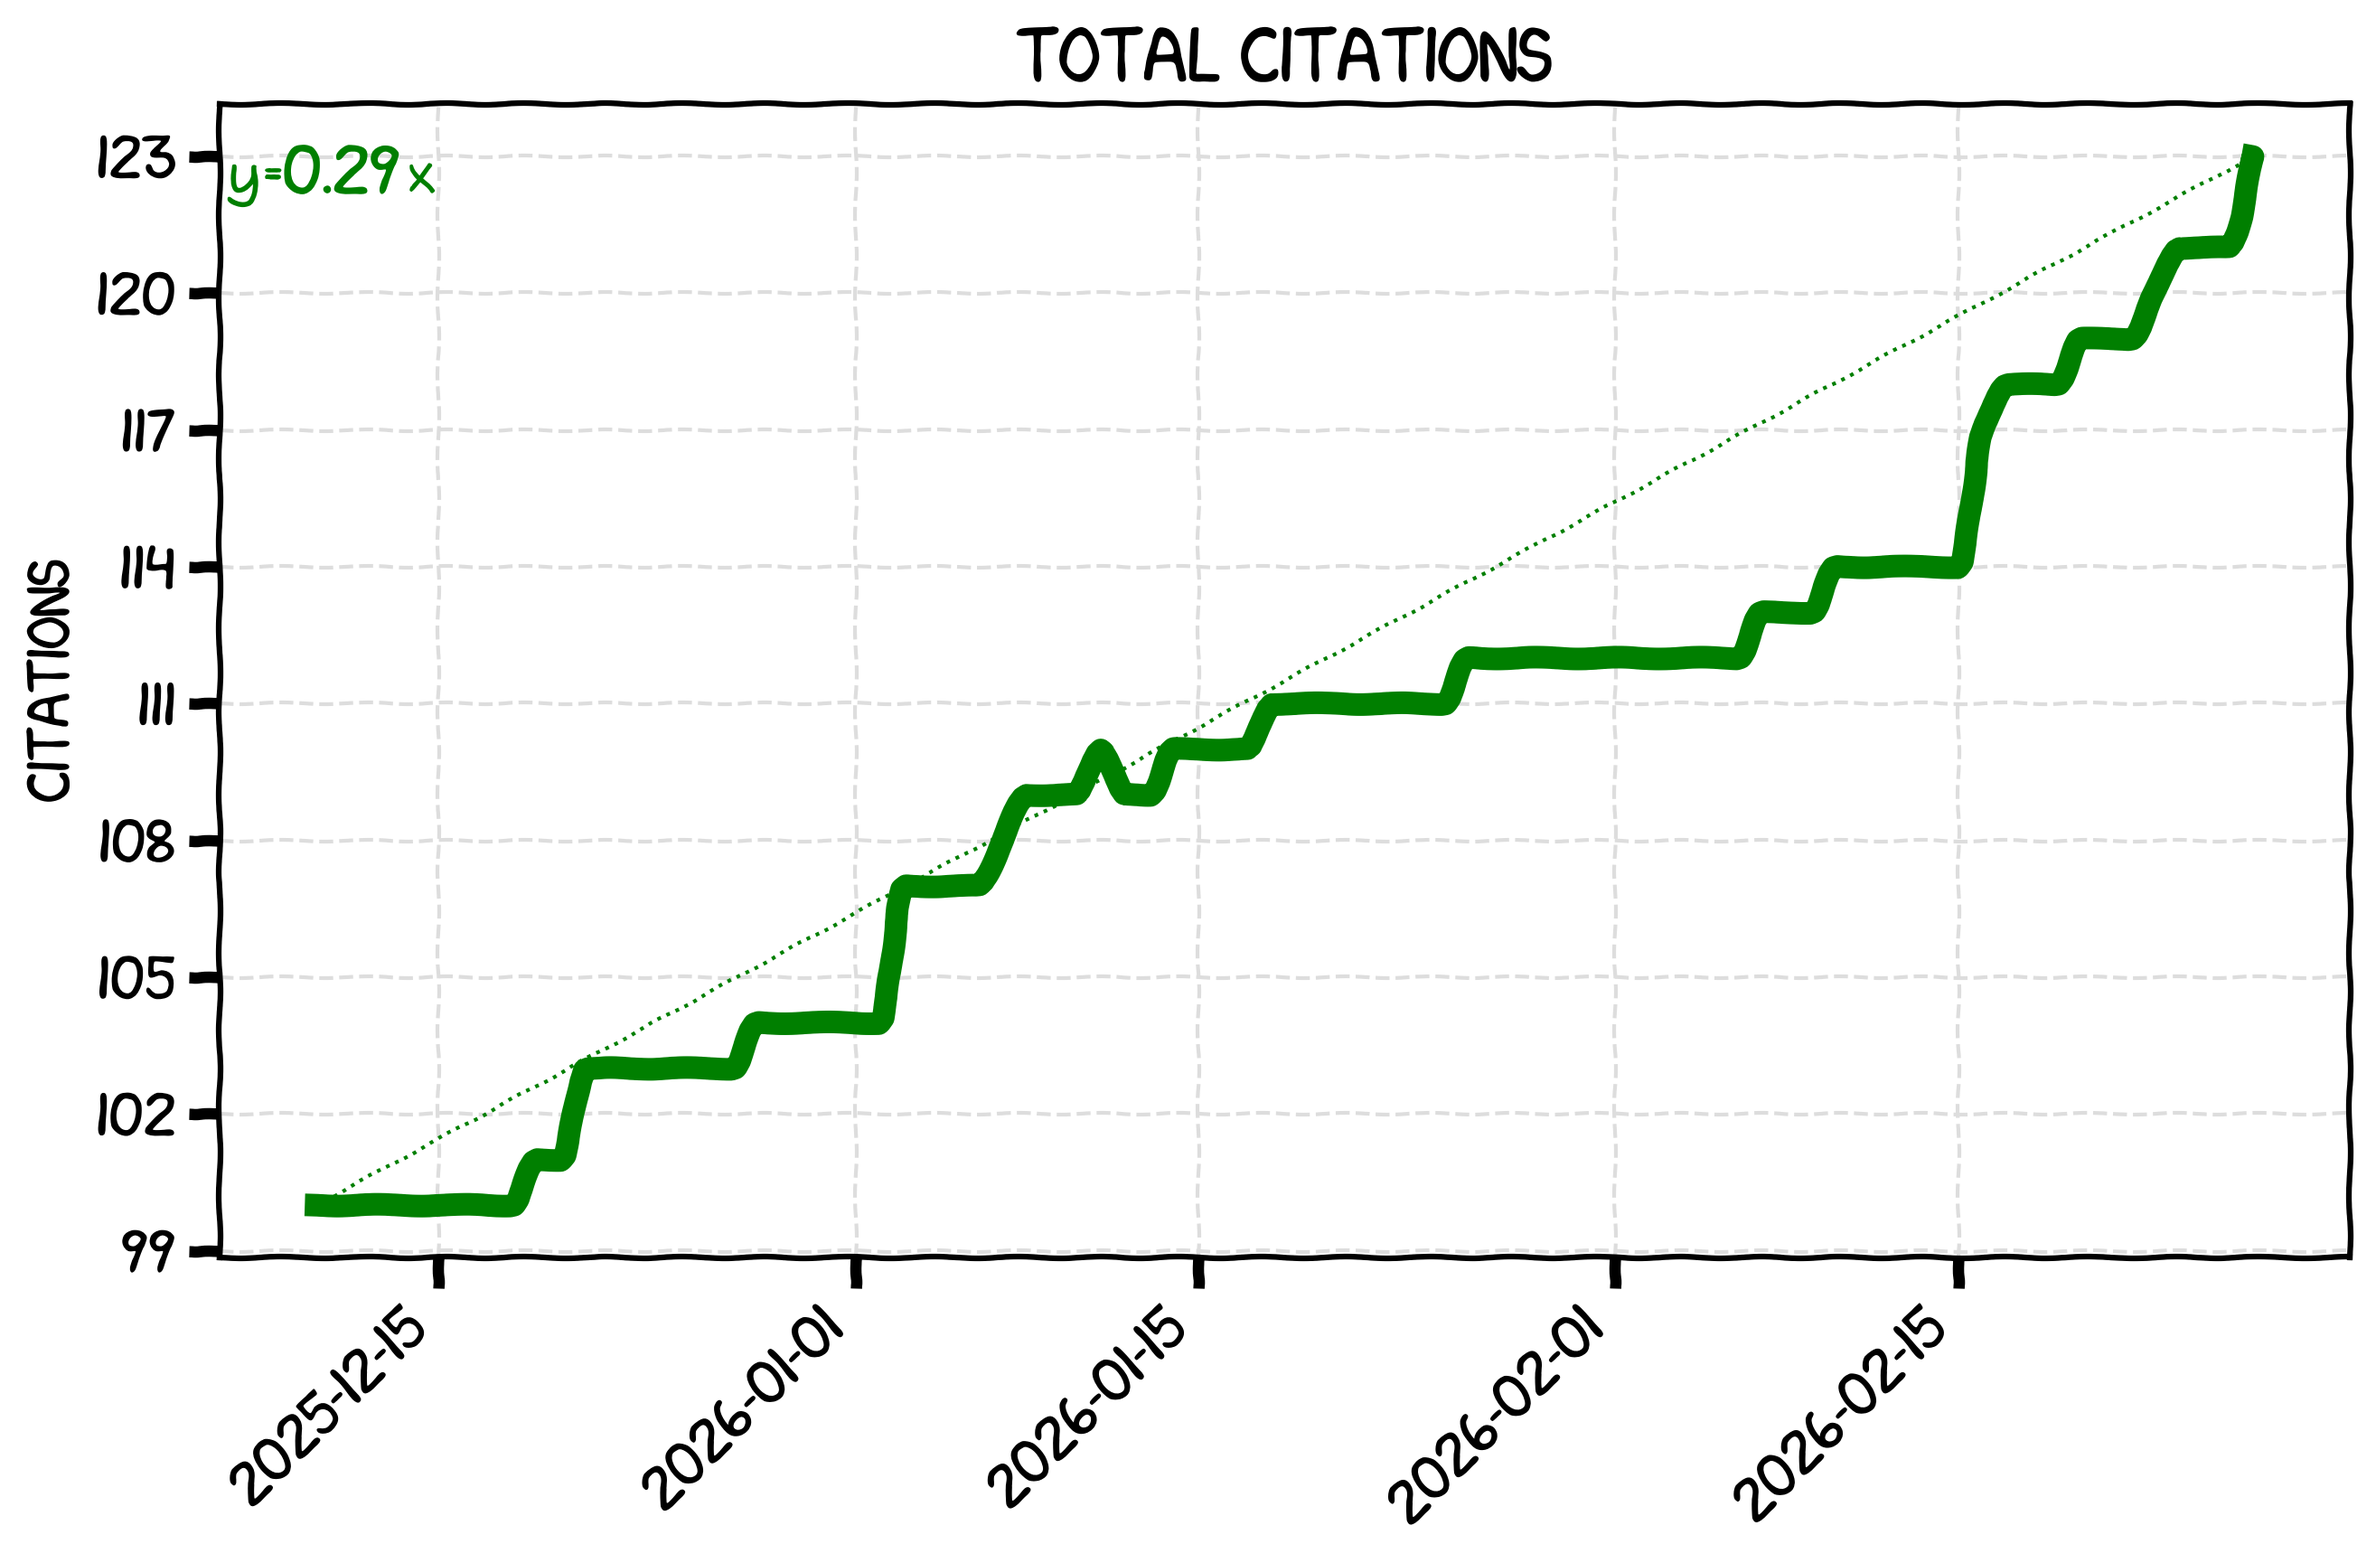
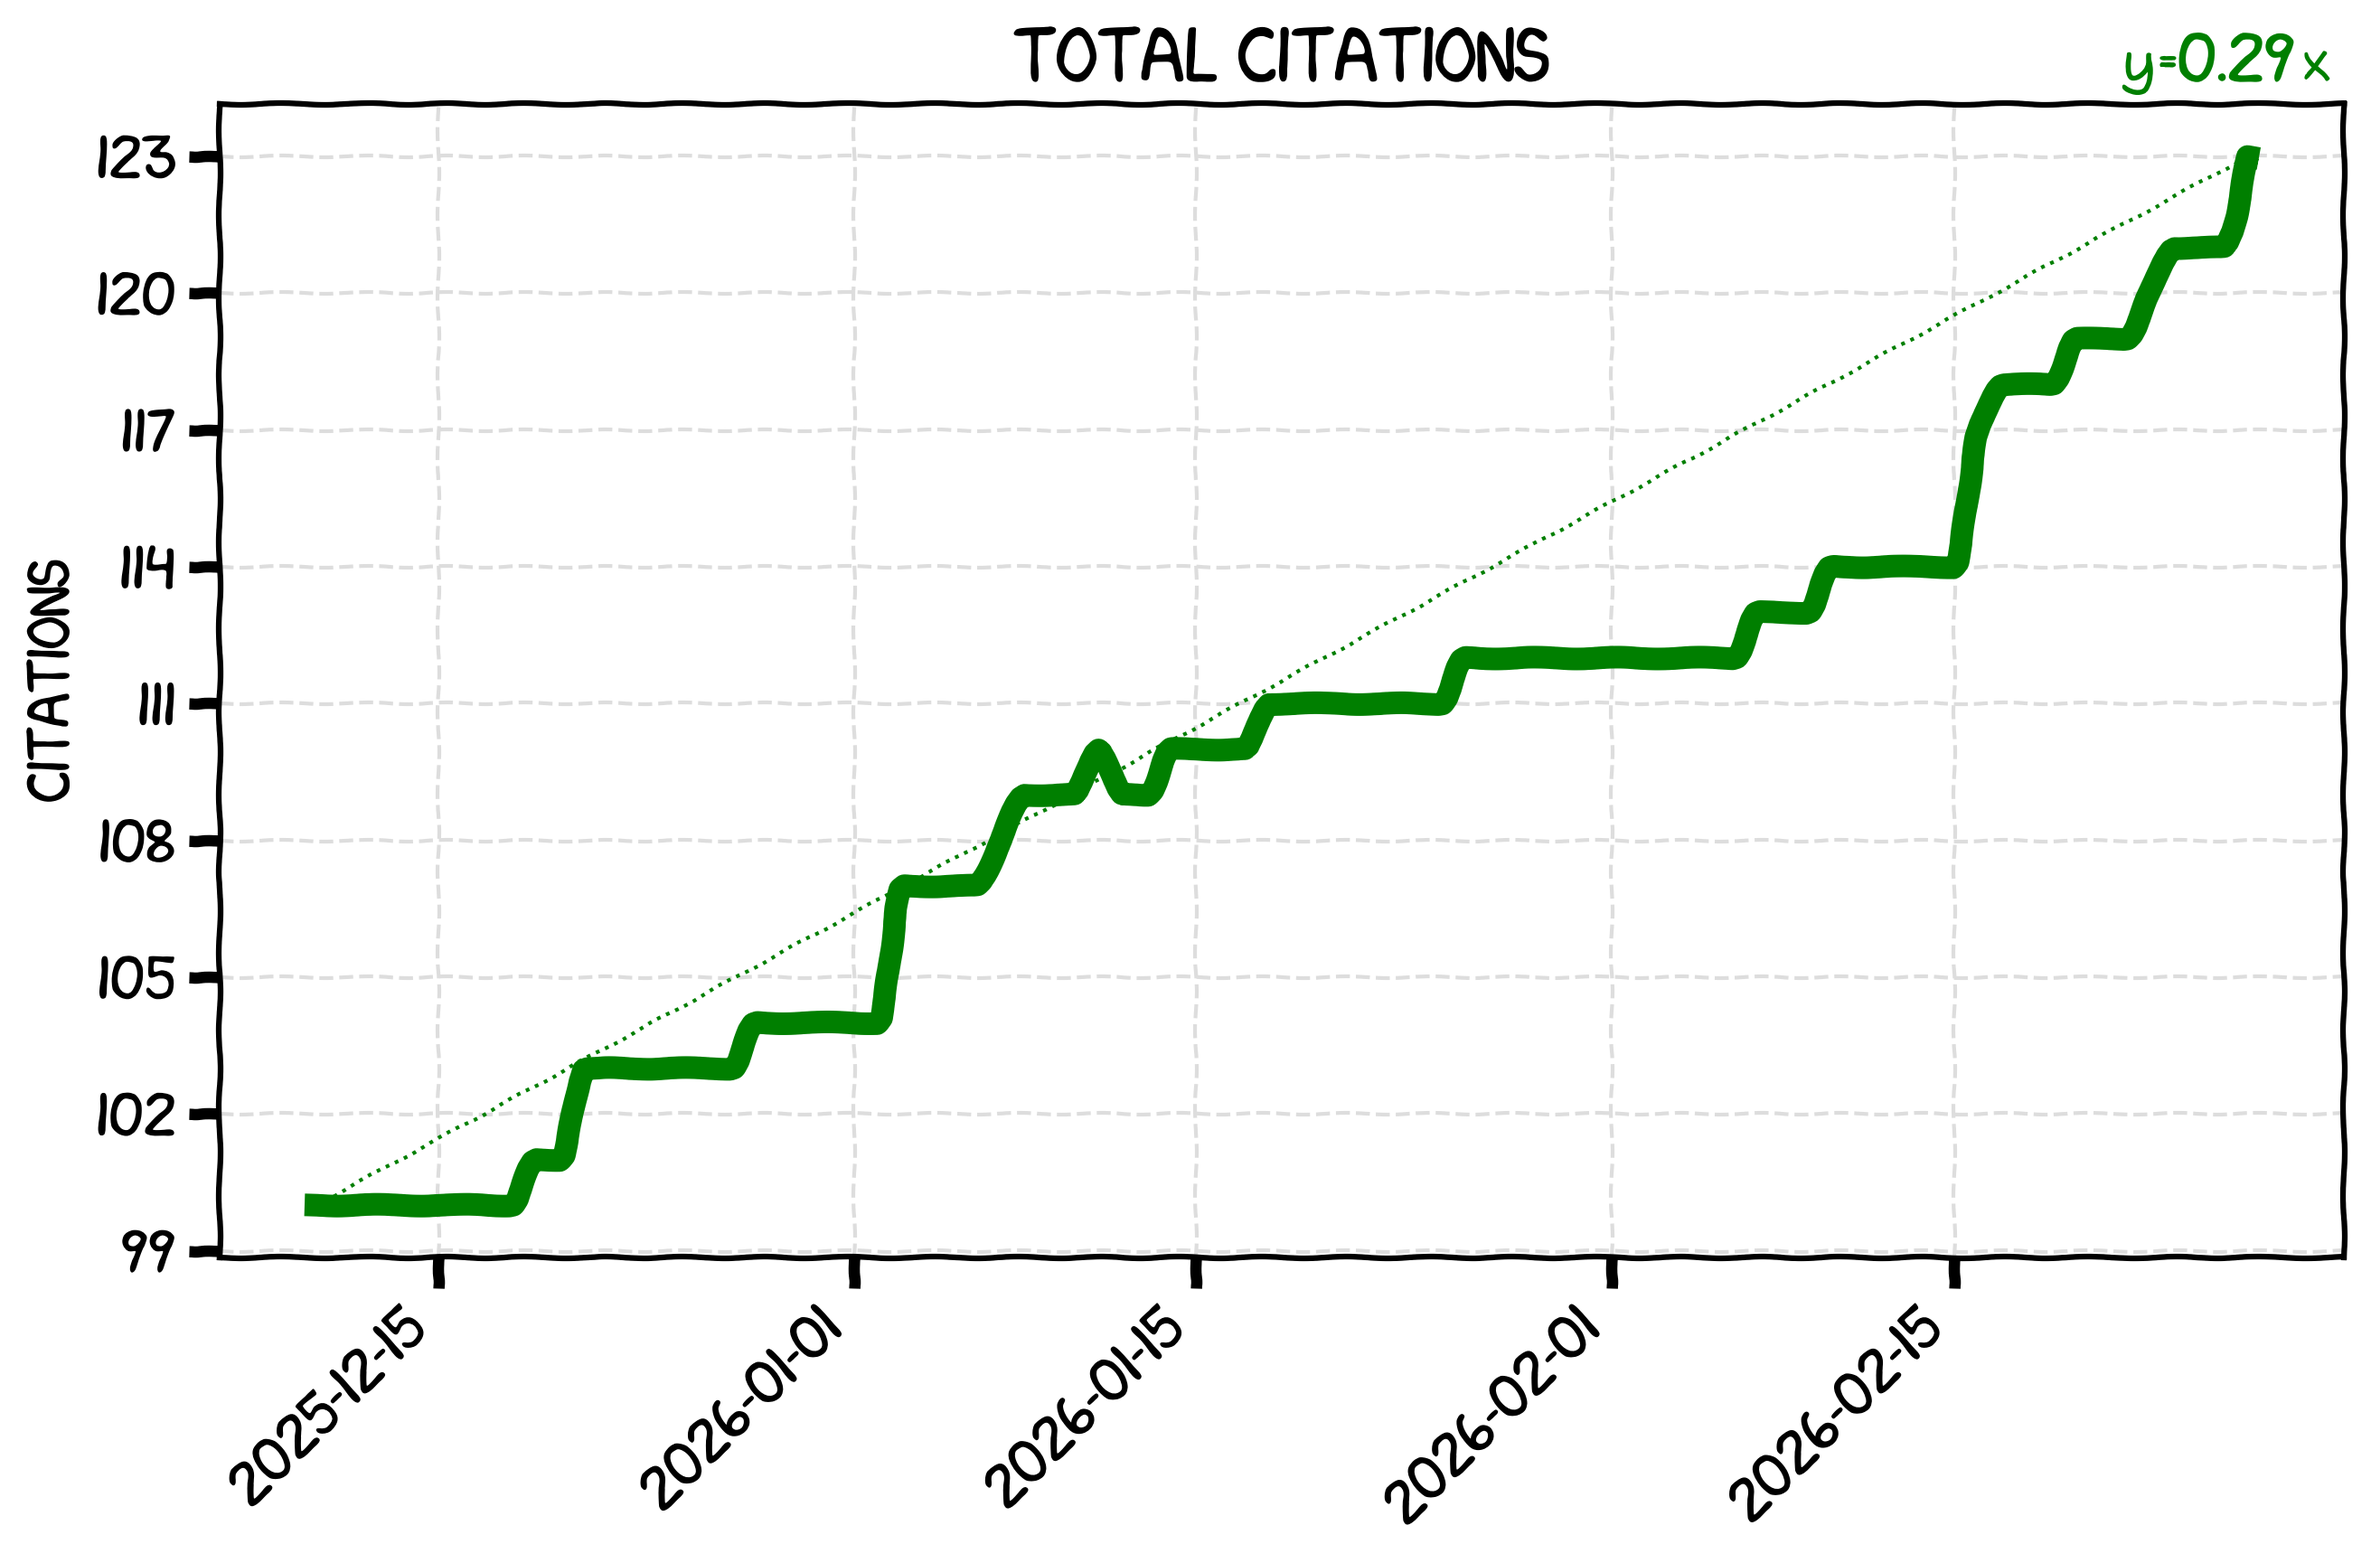
changed rate placement

diff --git a/plotting.py b/plotting.py
@@ -146,7 +146,7 @@ def generate_version(df_wide, df_cumulative, config, theme_name):
         mid_y = (y_start + y_end) / 2
         
         # Add the text label just below the midpoint
-        ax.text(x_start+0.75, y_end*1.002, f'y={rate:.2f}x', 
+        ax.text(x_end-0.75, y_end*1.022, f'y={rate:.2f}x', 
                 color=config['line'],
                 fontsize=16,
                 ha='center', 
